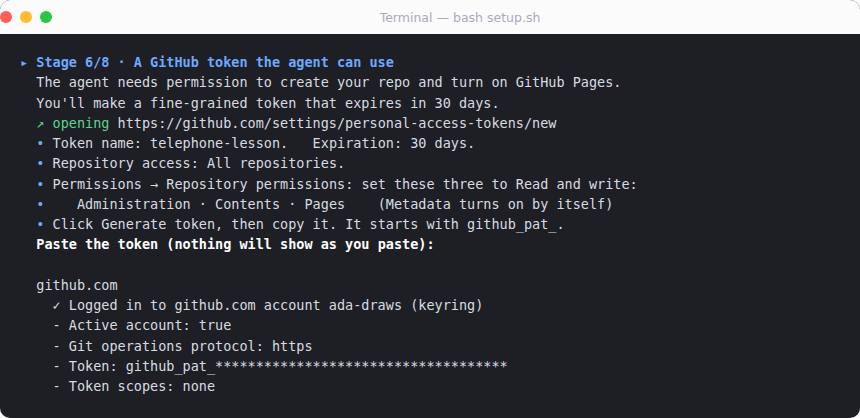
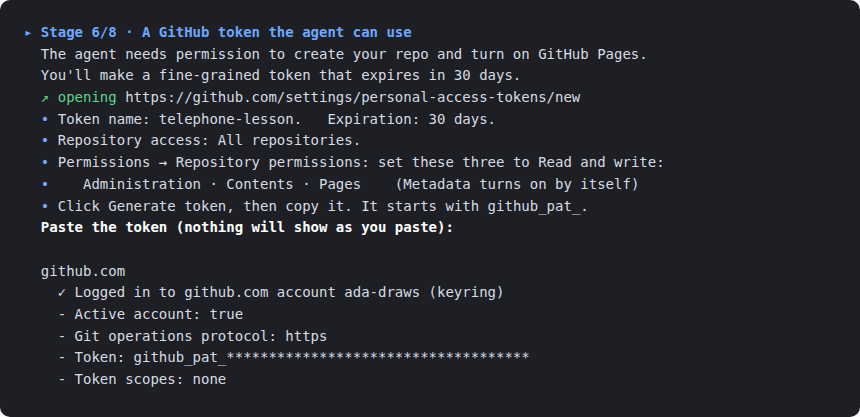
Terminal figure without the fake title bar
Claude-Session: https://claude.ai/code/session_01QMo4ueq83szHorSF76kyid

Changed region(s): [[0.0, 0.0, 1.0, 0.9353]]

diff --git a/telephone/index.html b/telephone/index.html
@@ -70,7 +70,7 @@
 <h2 id="walkthrough"><a href="#walkthrough">What the wizard looks like</a></h2>
 <p>Each stage clears the screen, so you only ever see the current step: a title with the stage number, a line or two on what is happening, the page it opened for you, and a prompt. This is stage 6, the one people ask about most.</p>
 <figure>
-<img src="img/wizard-token.png" alt="Terminal showing stage 6 of the setup wizard, the GitHub token" width="860" height="418">
+<img src="img/wizard-token.png" alt="Terminal showing stage 6 of the setup wizard, the GitHub token" width="860" height="417">
 <figcaption>Stage 6. The wizard opens GitHub's new token page and lists what to set: the name, 30 days, all repositories, and the three permissions Administration, Contents and Pages at Read and write. GitHub shows the token once. Copy it, paste it at the prompt, press Return. Nothing appears while you paste. gh then reports that you are logged in and shows the token masked with stars. Windows shows the same stages with the same words.</figcaption>
 </figure>
 
